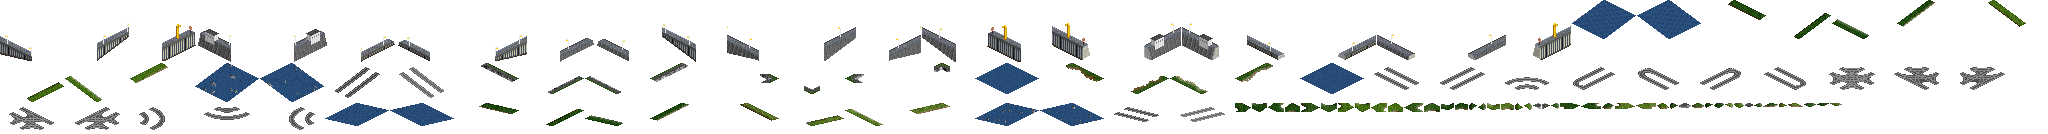
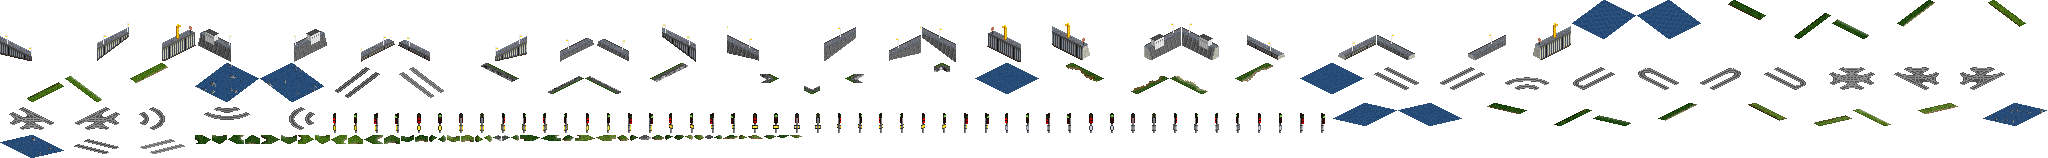
PX5: extract pre-signal light sprites (presignal_entry/exit/combo 48 frames) into EXTRA pack + wire entry/exit/combo renderer via blitPackFrom; base 1275-1290 wiring unchanged; presignalFrame unit tested

diff --git a/js/renderer/layers/signals.js b/js/renderer/layers/signals.js
@@ -16,8 +16,8 @@
  * the base pack, so they stay procedural. When the pack is off they also stay procedural.
  */
 import { HALF_H } from '../iso.js';
-import { packActive } from '../pack/state.js';
-import { blitPack } from '../pack/draw.js';
+import { packActive, packState } from '../pack/state.js';
+import { blitPack, blitPackFrom } from '../pack/draw.js';
 
 /**
  * OpenGFX electric light signal sprite id for a (dir, red) pair. PURE (unit-tested).
@@ -45,9 +45,27 @@ export function signalSpriteId(dir, red) {
  * pre-signal (entry/exit/combo: extra set 5088+, not in the base pack).
  */
 export function drawSignalSprite(ctx, sx, sy, red = false, type = 'block', dir = 0) {
-  if (type === 'entry' || type === 'exit' || type === 'combo') return false;
+  if (type === 'entry' || type === 'exit' || type === 'combo') {
+    // pre-signals live in the EXTRA pack (presignal_{entry,exit,combo}.0..15), not base. Frame = dir axis pair + red/green.
+    if (!packActive() || !packState.extra) return false;
+    const frame = presignalFrame(dir, red);
+    return blitPackFrom(packState.extra, ctx, `presignal_${type}.${frame}`, sx, sy - HALF_H);
+  }
   if (!packActive()) return false;
   return blitPack(ctx, String(signalSpriteId(dir, red)), sx, sy - HALF_H);
+}
+
+/** Frame index for presignal sprites (same direction-pair order as signalSpriteId, frames 0..15). PURE. */
+export function presignalFrame(dir, red) {
+  const c = red ? 0 : 1;
+  // axis pairs only: E(2) e-w pair at 8, W(8) w-e at 10, N(1) n-s at 14, S(4) s-n at 12 (tmpl_signal order)
+  switch (dir) {
+    case 2: return 8 + c; // E: e-w (frames 8/9)
+    case 8: return 10 + c; // W: w-e (10/11)
+    case 1: return 14 + c; // N: n-s (14/15)
+    case 4: return 12 + c; // S: s-n (12/13)
+    default: return 8 + c; // two-way
+  }
 }
 
 /**

diff --git a/tools/ogfx/extract_extra.js b/tools/ogfx/extract_extra.js
@@ -99,6 +99,19 @@ function add(set, file, list) {
   add('locks', 'sprites/png/infrastructure/locks_normal.gimp.png', r);
 }
 
+// presignals (extra-signals.pnml PRE_SIGNAL block, lines 3-7): light-{entry,exit,combo}.png × tmpl_signals_file(10,50)
+// = 3×16 frames (dir pairs red/green). Rects are the template tmpl_signals_file from sprite_templates.pnml
+// line 169 (x offsets 0..450, each 20x30 xo=-9 yo=-28); y is 50 in extra-signals.pnml.
+// (British-side block + German right-side semaphore variants in the same file are guarded by
+// `if ((traffic_side == TRAFFIC_SIDE_RIGHT))` so the light-* pre-signals are side-agnostic here.)
+{
+  const offs = [0, 30, 60, 90, 120, 150, 180, 210, 300, 330, 240, 270, 360, 390, 420, 450];
+  const ff = offs.map((x) => ({ x: x + 10, y: 50, w: 20, h: 30, xo: -9, yo: -28 }));
+  for (const kind of ['entry', 'exit', 'combo']) {
+    add(`presignal_${kind}`, `sprites/png/infrastructure/signals/light-${kind}.png`, ff);
+  }
+}
+
 // tram overlay (extra-tram-tracks.pnml ottd_tramway2 starts at TRAMWAY_BASE+2, so SPR_TRAMWAY_OVERLAY (base+4) is rect 2; rects 2..20 = overlay 0..18)
 {
   const body = block(text('sprites/extra/extra-tram-tracks.pnml'), /replacenew ottd_tramway2\(/);

diff --git a/tests/presignal.test.js b/tests/presignal.test.js
@@ -1,0 +1,9 @@
+/** presignal sprite wiring check (PX5) */
+import { test, expect, describe } from 'bun:test';
+import { signalSpriteId, presignalFrame } from '../js/renderer/layers/signals.js';
+describe('presignal', () => {
+  test('frames in range', () => {
+    expect(presignalFrame(2, true)).toBe(8); expect(presignalFrame(2, false)).toBe(9);
+    expect(presignalFrame(8, true)).toBe(10); expect(presignalFrame(1, false)).toBe(15);
+  });
+});
